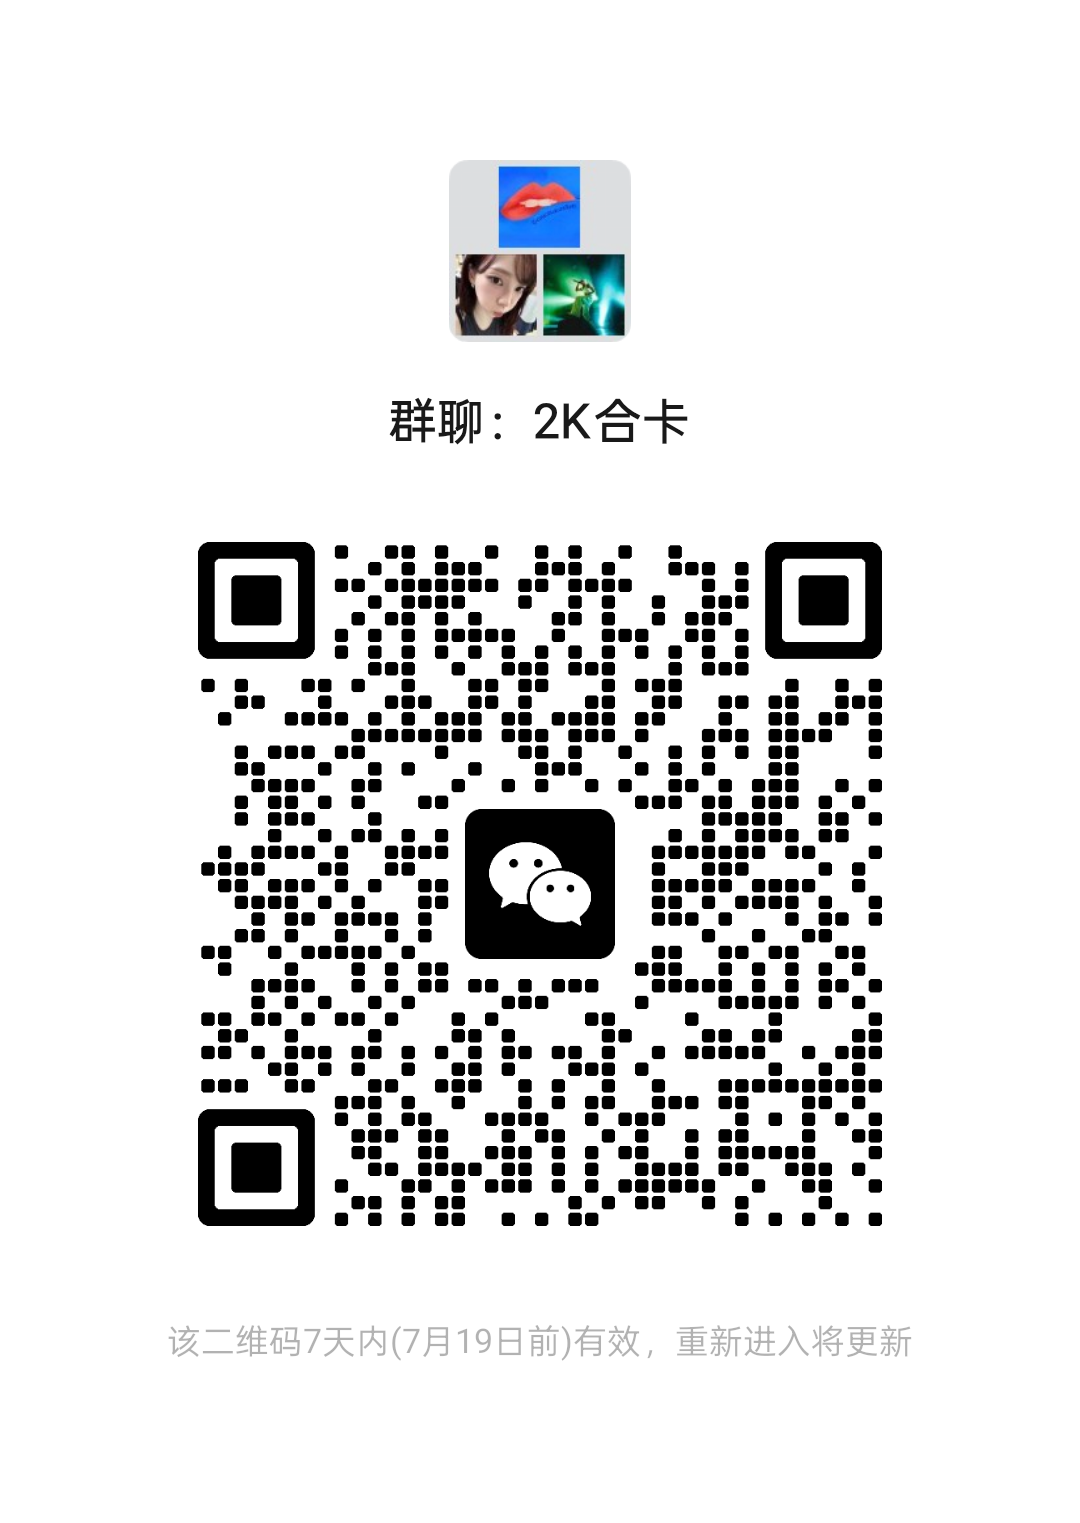
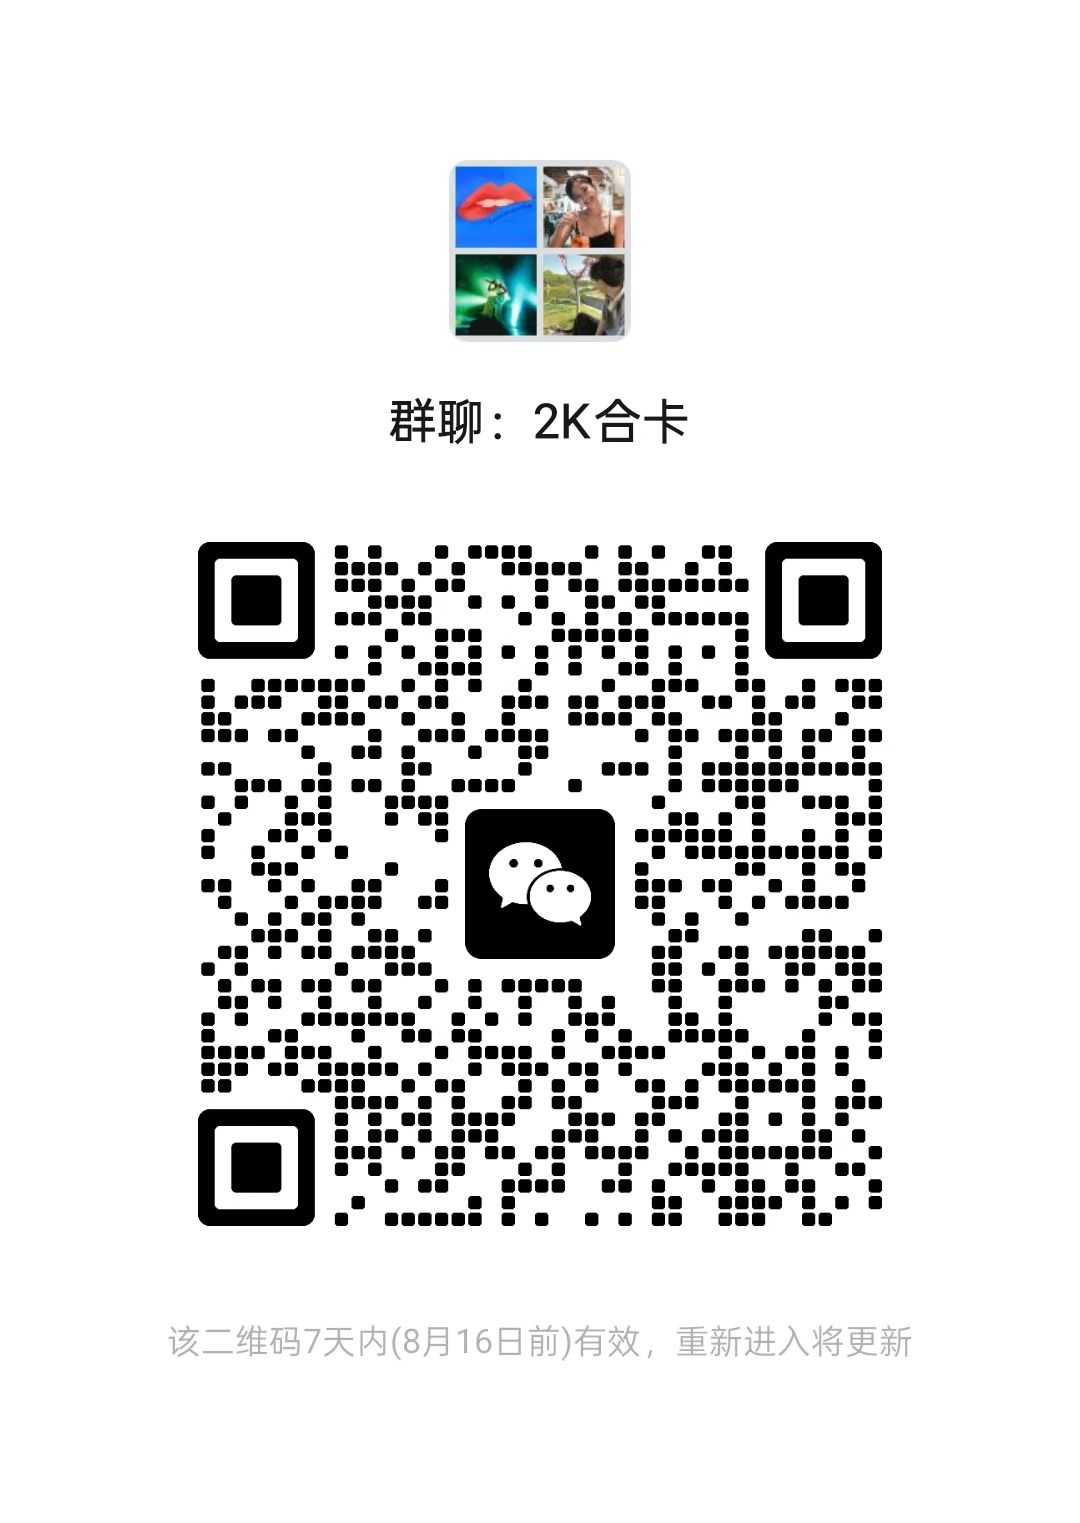
feat(miniprogram): 更新群聊二维码（2K合卡），发布后重新推送群通知

diff --git a/wechat-miniprogram-native/miniprogram/pages/guardianDashboardPage/index.js b/wechat-miniprogram-native/miniprogram/pages/guardianDashboardPage/index.js
@@ -143,6 +143,8 @@ Page({
     editRecordNetPreview: "0\u5F20"
   },
   onLoad() {
+    // 新版本发布：清除旧的「已显示过群聊通知」标记，让群二维码弹窗重新推送一次
+    wx.removeStorageSync('hasShownQrCode');
     // 检查是否需要显示群二维码弹窗
     const hasShownQrCode = wx.getStorageSync('hasShownQrCode');
     if (!hasShownQrCode) {
